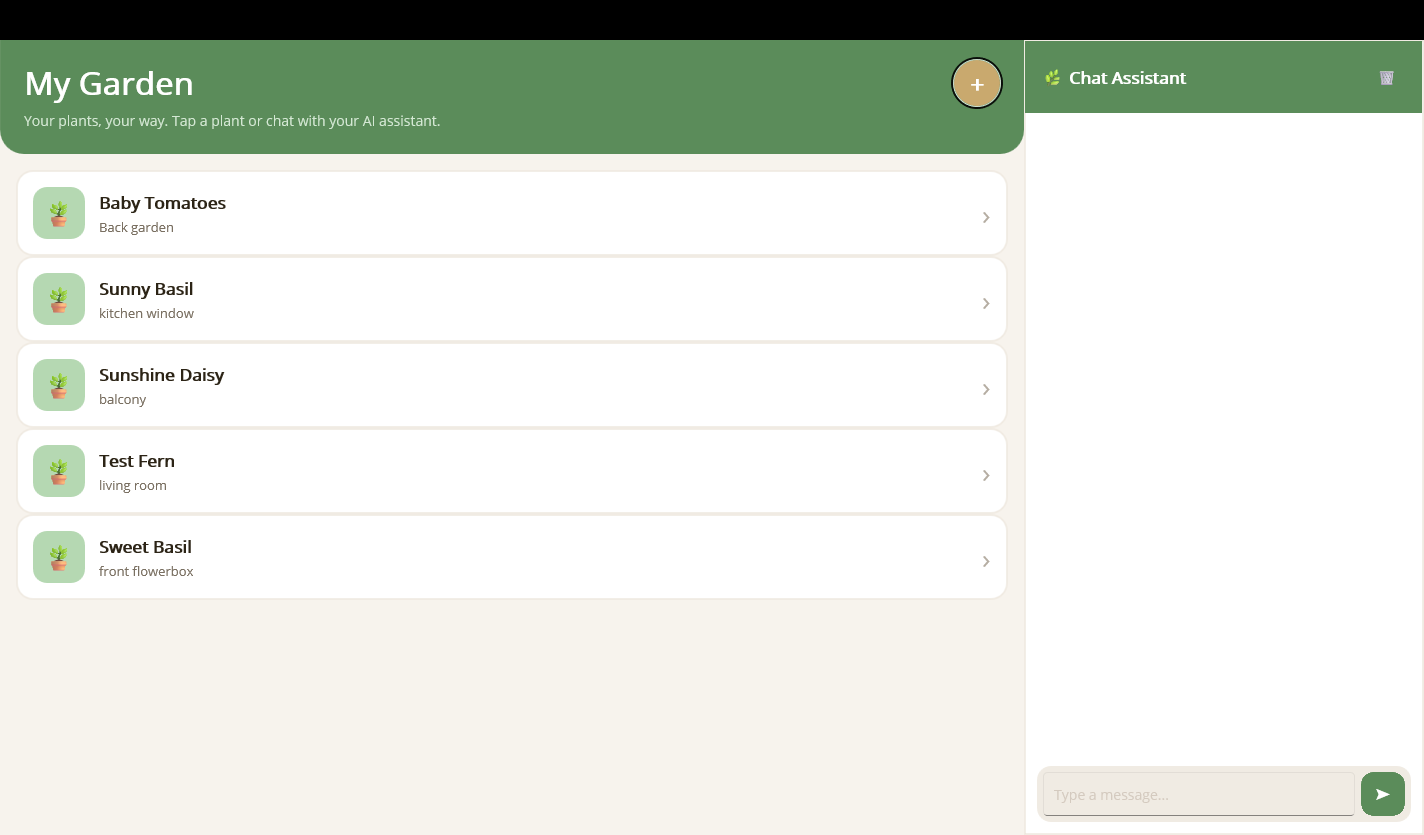
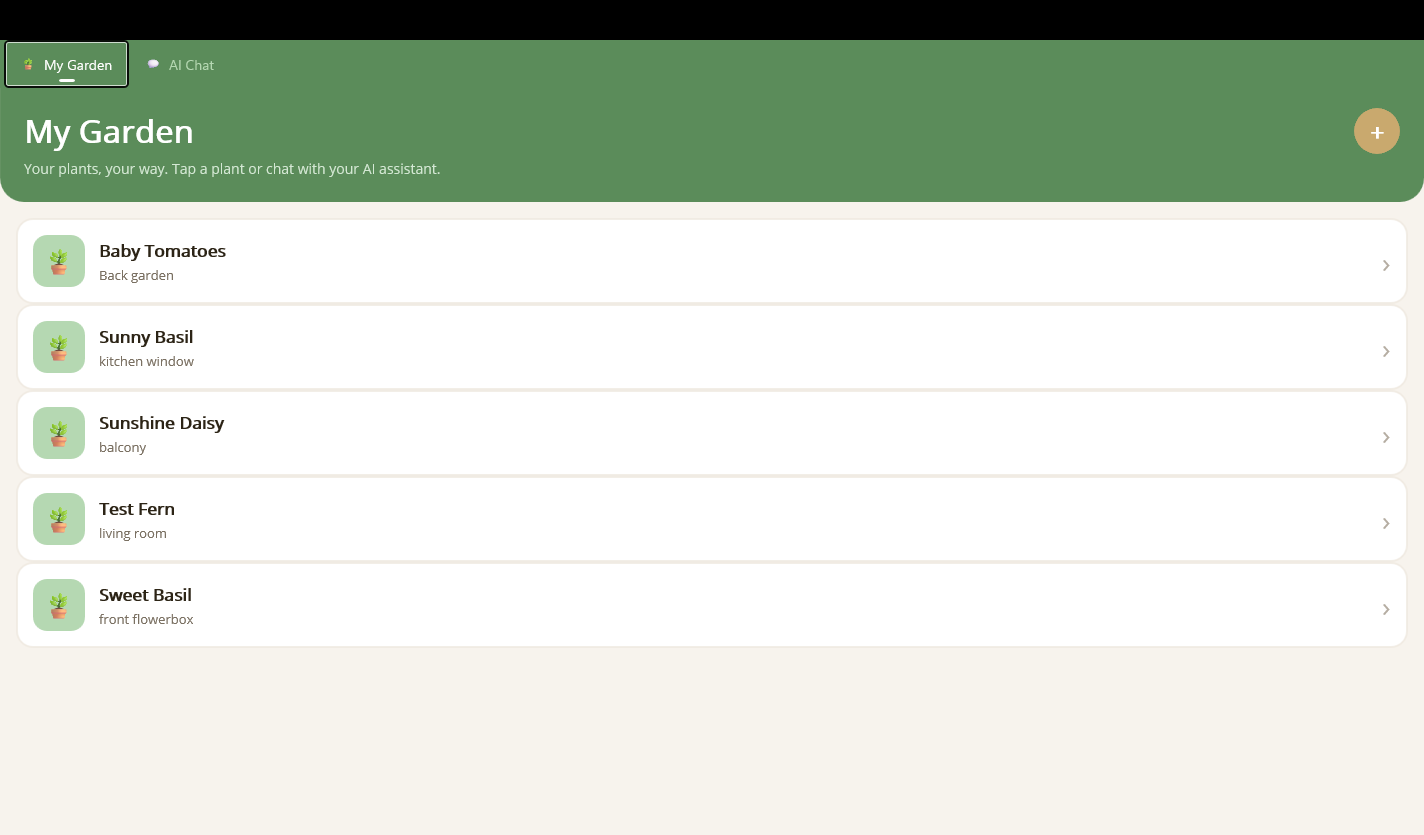
Switch to tab-based navigation: Garden tab + AI Chat tab
- AppShell: TabBar with 'My Garden' and 'AI Chat' tabs
- New ChatPage: full-screen chat using ChatSidebarControl
- Remove sidebar from HomePage and PlantDetailPage (clean single-purpose pages)
- Remove ChatViewModel dependency from HomePage/PlantDetailPage constructors
- Register ChatPage in DI
- Update doc screenshots

diff --git a/samples/MauiSampleApp/Pages/HomePage.xaml b/samples/MauiSampleApp/Pages/HomePage.xaml
@@ -3,18 +3,13 @@
              xmlns:x="http://schemas.microsoft.com/winfx/2009/xaml"
              xmlns:vm="clr-namespace:MauiSampleApp.ViewModels"
              xmlns:models="clr-namespace:MauiSampleApp.Core.Models;assembly=MauiSampleApp.Core"
-             xmlns:maui="clr-namespace:MauiAIAnnotations.Maui.Controls;assembly=MauiAIAnnotations.Maui"
-             xmlns:mauiChat="clr-namespace:MauiAIAnnotations.Maui.Chat;assembly=MauiAIAnnotations.Maui"
-             xmlns:local="clr-namespace:MauiSampleApp.Chat"
              x:Class="MauiSampleApp.Pages.HomePage"
              Title="My Garden"
              Shell.NavBarIsVisible="False"
              BackgroundColor="{AppThemeBinding Light={StaticResource PageBg}, Dark={StaticResource PageBgDark}}"
              Shell.BackgroundColor="{StaticResource AccentGreen}">
 
-    <Grid ColumnDefinitions="*,400" ColumnSpacing="0">
-        <!-- Main Content -->
-        <Grid Grid.Column="0" RowDefinitions="Auto,*" RowSpacing="0">
+    <Grid RowDefinitions="Auto,*" RowSpacing="0">
 
             <!-- Hero Header -->
             <Border Grid.Row="0"
@@ -114,24 +109,6 @@
                     </DataTemplate>
                 </CollectionView.ItemTemplate>
             </CollectionView>
-        </Grid>
-
-        <!-- Permanent Chat Sidebar -->
-        <maui:ChatSidebarControl Grid.Column="1"
-                                 ChatVM="{Binding ChatViewModel}">
-            <maui:ChatSidebarControl.ContentTemplates>
-                <mauiChat:TextContentMapping Role="User" ViewType="{x:Type mauiChat:UserTextView}" />
-                <mauiChat:TextContentMapping Role="Assistant" ViewType="{x:Type mauiChat:AssistantTextView}" />
-                <mauiChat:FunctionCallMapping ViewType="{x:Type mauiChat:FunctionCallView}" />
-                <mauiChat:ToolApprovalMapping ToolName="add_plant" InnerViewType="{x:Type local:PlantApprovalView}" ViewType="{x:Type mauiChat:ToolApprovalView}" />
-                <mauiChat:ToolApprovalMapping ToolName="log_batch_care_events" InnerViewType="{x:Type local:BatchCareApprovalView}" ViewType="{x:Type mauiChat:ToolApprovalView}" />
-                <mauiChat:ToolApprovalMapping ViewType="{x:Type mauiChat:ToolApprovalView}" />
-                <local:PlantResultMapping ViewType="{x:Type local:PlantResultView}" />
-                <mauiChat:FunctionResultMapping ViewType="{x:Type mauiChat:FunctionResultView}" />
-                <mauiChat:ErrorContentMapping ViewType="{x:Type mauiChat:ErrorView}" />
-                <mauiChat:DefaultContentMapping ViewType="{x:Type mauiChat:DefaultContentView}" />
-            </maui:ChatSidebarControl.ContentTemplates>
-        </maui:ChatSidebarControl>
     </Grid>
 
 </ContentPage>

diff --git a/samples/MauiSampleApp/Pages/PlantDetailPage.xaml b/samples/MauiSampleApp/Pages/PlantDetailPage.xaml
@@ -3,17 +3,13 @@
              xmlns:x="http://schemas.microsoft.com/winfx/2009/xaml"
              xmlns:vm="clr-namespace:MauiSampleApp.ViewModels"
              xmlns:models="clr-namespace:MauiSampleApp.Core.Models;assembly=MauiSampleApp.Core"
-             xmlns:maui="clr-namespace:MauiAIAnnotations.Maui.Controls;assembly=MauiAIAnnotations.Maui"
-             xmlns:mauiChat="clr-namespace:MauiAIAnnotations.Maui.Chat;assembly=MauiAIAnnotations.Maui"
-             xmlns:local="clr-namespace:MauiSampleApp.Chat"
              x:Class="MauiSampleApp.Pages.PlantDetailPage"
              Title="Plant Details"
              Shell.NavBarIsVisible="False"
              BackgroundColor="{AppThemeBinding Light={StaticResource PageBg}, Dark={StaticResource PageBgDark}}"
              Shell.BackgroundColor="{StaticResource AccentGreen}">
 
-    <Grid ColumnDefinitions="*,400" ColumnSpacing="0">
-        <ScrollView Grid.Column="0">
+    <ScrollView>
             <VerticalStackLayout Spacing="0">
 
                 <!-- Hero Header with back button -->
@@ -199,22 +195,5 @@
                 </VerticalStackLayout>
             </VerticalStackLayout>
         </ScrollView>
-
-        <!-- Permanent Chat Sidebar -->
-        <maui:ChatSidebarControl Grid.Column="1" ChatVM="{Binding ChatViewModel}">
-            <maui:ChatSidebarControl.ContentTemplates>
-                <mauiChat:TextContentMapping Role="User" ViewType="{x:Type mauiChat:UserTextView}" />
-                <mauiChat:TextContentMapping Role="Assistant" ViewType="{x:Type mauiChat:AssistantTextView}" />
-                <mauiChat:FunctionCallMapping ViewType="{x:Type mauiChat:FunctionCallView}" />
-                <mauiChat:ToolApprovalMapping ToolName="add_plant" InnerViewType="{x:Type local:PlantApprovalView}" ViewType="{x:Type mauiChat:ToolApprovalView}" />
-                <mauiChat:ToolApprovalMapping ToolName="log_batch_care_events" InnerViewType="{x:Type local:BatchCareApprovalView}" ViewType="{x:Type mauiChat:ToolApprovalView}" />
-                <mauiChat:ToolApprovalMapping ViewType="{x:Type mauiChat:ToolApprovalView}" />
-                <local:PlantResultMapping ViewType="{x:Type local:PlantResultView}" />
-                <mauiChat:FunctionResultMapping ViewType="{x:Type mauiChat:FunctionResultView}" />
-                <mauiChat:ErrorContentMapping ViewType="{x:Type mauiChat:ErrorView}" />
-                <mauiChat:DefaultContentMapping ViewType="{x:Type mauiChat:DefaultContentView}" />
-            </maui:ChatSidebarControl.ContentTemplates>
-        </maui:ChatSidebarControl>
-    </Grid>
 
 </ContentPage>

diff --git a/samples/MauiSampleApp/Pages/ChatPage.xaml b/samples/MauiSampleApp/Pages/ChatPage.xaml
@@ -1,0 +1,27 @@
+<?xml version="1.0" encoding="utf-8" ?>
+<ContentPage xmlns="http://schemas.microsoft.com/dotnet/2021/maui"
+             xmlns:x="http://schemas.microsoft.com/winfx/2009/xaml"
+             xmlns:maui="clr-namespace:MauiAIAnnotations.Maui.Controls;assembly=MauiAIAnnotations.Maui"
+             xmlns:mauiChat="clr-namespace:MauiAIAnnotations.Maui.Chat;assembly=MauiAIAnnotations.Maui"
+             xmlns:local="clr-namespace:MauiSampleApp.Chat"
+             x:Class="MauiSampleApp.Pages.ChatPage"
+             Title="AI Chat"
+             Shell.NavBarIsVisible="False"
+             BackgroundColor="{AppThemeBinding Light={StaticResource PageBg}, Dark={StaticResource PageBgDark}}">
+
+    <maui:ChatSidebarControl ChatVM="{Binding}">
+        <maui:ChatSidebarControl.ContentTemplates>
+            <mauiChat:TextContentMapping Role="User" ViewType="{x:Type mauiChat:UserTextView}" />
+            <mauiChat:TextContentMapping Role="Assistant" ViewType="{x:Type mauiChat:AssistantTextView}" />
+            <mauiChat:FunctionCallMapping ViewType="{x:Type mauiChat:FunctionCallView}" />
+            <mauiChat:ToolApprovalMapping ToolName="add_plant" InnerViewType="{x:Type local:PlantApprovalView}" ViewType="{x:Type mauiChat:ToolApprovalView}" />
+            <mauiChat:ToolApprovalMapping ToolName="log_batch_care_events" InnerViewType="{x:Type local:BatchCareApprovalView}" ViewType="{x:Type mauiChat:ToolApprovalView}" />
+            <mauiChat:ToolApprovalMapping ViewType="{x:Type mauiChat:ToolApprovalView}" />
+            <local:PlantResultMapping ViewType="{x:Type local:PlantResultView}" />
+            <mauiChat:FunctionResultMapping ViewType="{x:Type mauiChat:FunctionResultView}" />
+            <mauiChat:ErrorContentMapping ViewType="{x:Type mauiChat:ErrorView}" />
+            <mauiChat:DefaultContentMapping ViewType="{x:Type mauiChat:DefaultContentView}" />
+        </maui:ChatSidebarControl.ContentTemplates>
+    </maui:ChatSidebarControl>
+
+</ContentPage>

diff --git a/samples/MauiSampleApp/AppShell.xaml b/samples/MauiSampleApp/AppShell.xaml
@@ -11,11 +11,24 @@
     Shell.BackgroundColor="{StaticResource AccentGreen}"
     Shell.ForegroundColor="White"
     Shell.TitleColor="White"
-    Shell.UnselectedColor="#B5D8B2">
+    Shell.UnselectedColor="#B5D8B2"
+    Shell.TabBarBackgroundColor="{StaticResource AccentGreen}"
+    Shell.TabBarForegroundColor="White"
+    Shell.TabBarUnselectedColor="#B5D8B2"
+    Shell.TabBarTitleColor="White">
 
-    <ShellContent
-        Title="My Garden"
-        ContentTemplate="{DataTemplate pages:HomePage}"
-        Route="HomePage" />
+    <TabBar>
+        <ShellContent
+            Title="My Garden"
+            Icon="{FontImageSource FontFamily='OpenSansRegular', Glyph='&#x1FAB4;', Color=White}"
+            ContentTemplate="{DataTemplate pages:HomePage}"
+            Route="HomePage" />
+
+        <ShellContent
+            Title="AI Chat"
+            Icon="{FontImageSource FontFamily='OpenSansRegular', Glyph='&#x1F4AC;', Color=White}"
+            ContentTemplate="{DataTemplate pages:ChatPage}"
+            Route="ChatPage" />
+    </TabBar>
 
 </Shell>

diff --git a/samples/MauiSampleApp/Pages/HomePage.xaml.cs b/samples/MauiSampleApp/Pages/HomePage.xaml.cs
@@ -7,10 +7,9 @@ public partial class HomePage : ContentPage
 {
     private readonly HomePageViewModel _viewModel;
 
-    public HomePage(HomePageViewModel viewModel, GardenChatViewModel chatViewModel)
+    public HomePage(HomePageViewModel viewModel)
     {
         _viewModel = viewModel;
-        viewModel.ChatViewModel = chatViewModel;
         BindingContext = viewModel;
         InitializeComponent();
     }

diff --git a/samples/MauiSampleApp/Pages/PlantDetailPage.xaml.cs b/samples/MauiSampleApp/Pages/PlantDetailPage.xaml.cs
@@ -4,9 +4,8 @@ namespace MauiSampleApp.Pages;
 
 public partial class PlantDetailPage : ContentPage
 {
-    public PlantDetailPage(PlantDetailViewModel viewModel, GardenChatViewModel chatViewModel)
+    public PlantDetailPage(PlantDetailViewModel viewModel)
     {
-        viewModel.ChatViewModel = chatViewModel;
         BindingContext = viewModel;
         InitializeComponent();
     }

diff --git a/samples/MauiSampleApp/MauiProgram.cs b/samples/MauiSampleApp/MauiProgram.cs
@@ -76,6 +76,7 @@ public static class MauiProgram
         builder.Services.AddTransient<HomePage>();
         builder.Services.AddTransient<PlantDetailPage>();
         builder.Services.AddTransient<AddPlantPage>();
+        builder.Services.AddTransient<ChatPage>();
         builder.Services.AddTransient<DebugPage>();
 
 #if DEBUG

diff --git a/samples/MauiSampleApp/Pages/ChatPage.xaml.cs b/samples/MauiSampleApp/Pages/ChatPage.xaml.cs
@@ -1,0 +1,12 @@
+using MauiSampleApp.ViewModels;
+
+namespace MauiSampleApp.Pages;
+
+public partial class ChatPage : ContentPage
+{
+    public ChatPage(GardenChatViewModel chatViewModel)
+    {
+        BindingContext = chatViewModel;
+        InitializeComponent();
+    }
+}
